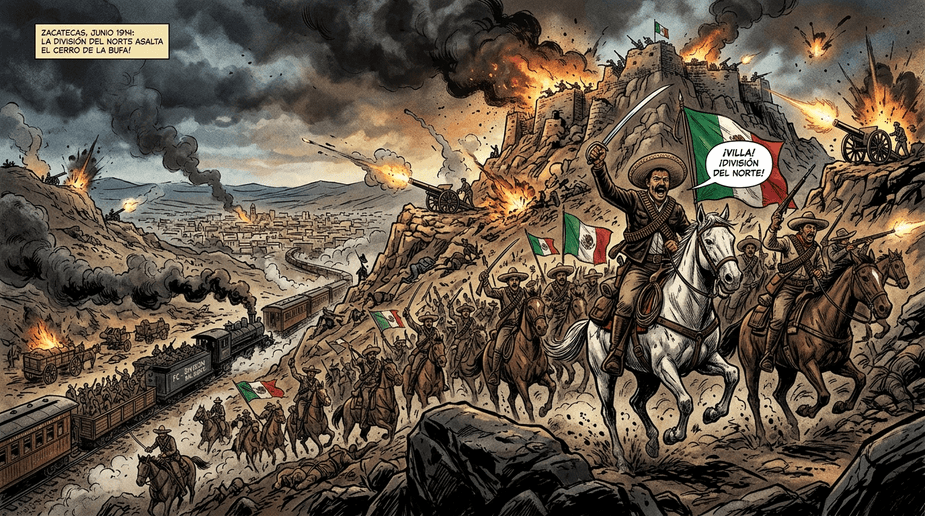
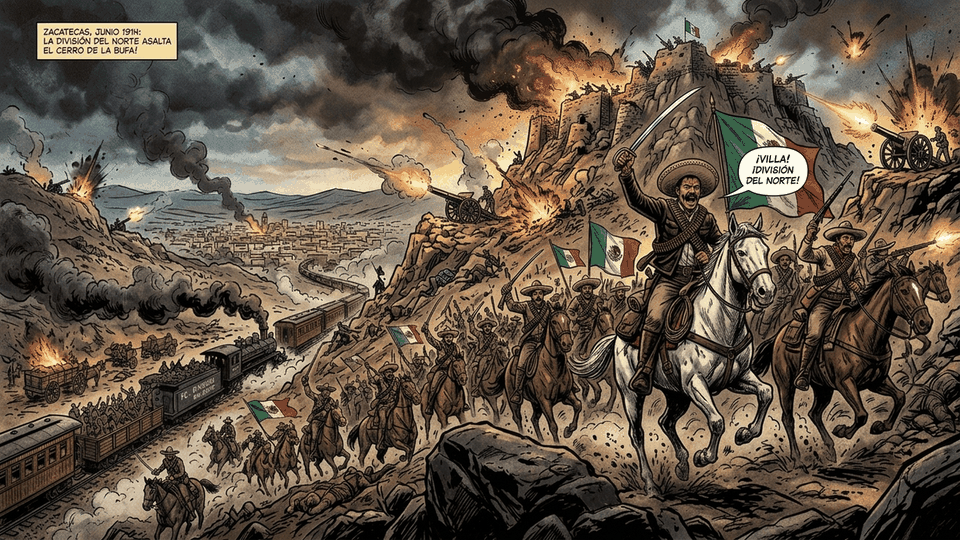
fix(history): corregir banderas anacronicas a estandartes y banderas historicas de 1810 y 1911-1914

diff --git a/src/components/history/HistoricalCinematicVideo.tsx b/src/components/history/HistoricalCinematicVideo.tsx
@@ -171,6 +171,44 @@ export const HistoricalCinematicVideo: React.FC<HistoricalCinematicVideoProps> =
       ];
     }
 
+    if (norm.includes('hidalgo')) {
+      return [
+        {
+          id: 'cap-1',
+          title: 'Los Talleres Populares de Dolores',
+          duration: 18,
+          imageUrl: '/images/history/hidalgo_talleres.jpg',
+          script: narratorScript || 'En lugar de limitarse a oficios religiosos, Hidalgo enseña alfarería, cultivo de la vid y telares a indígenas y mestizos para romper la dependencia virreinal.',
+          cameraMovement: 'zoom_in',
+          youtubeUrl: videoUrl
+        },
+        {
+          id: 'cap-2',
+          title: 'El Grito de Independencia en el Atrio',
+          duration: 20,
+          imageUrl: '/images/history/hidalgo_grito_comic_4.png',
+          script: 'Con el repicar de la campana parroquial y el estandarte guadalupano en mano, Hidalgo llama al pueblo a sacudirse trescientos años de tiranía virreinal.',
+          cameraMovement: 'dawn_ascend'
+        },
+        {
+          id: 'cap-3',
+          title: 'La Toma de la Alhóndiga de Granaditas',
+          duration: 18,
+          imageUrl: '/images/history/alhondiga_granaditas.jpg',
+          script: 'Ante el refugio de las autoridades virreinales en la fortaleza granera, el minero El Pípila quema la puerta principal con una losa en la espalda permitiendo la victoria patriota.',
+          cameraMovement: 'pan_slow'
+        },
+        {
+          id: 'cap-4',
+          title: 'El Decreto Histórico de Abolición de la Esclavitud',
+          duration: 22,
+          imageUrl: '/images/history/hidalgo_decreto_abolicion.jpg',
+          script: '6 de diciembre de 1810. En Guadalajara, Don Miguel Hidalgo promulga el histórico bando que declara totalmente libres a los esclavos y suprime los tributos de castas en América.',
+          cameraMovement: 'gallop_sweep'
+        }
+      ];
+    }
+
     return [
       {
         id: 'cap-1',

diff --git a/scripts/data/villa_qa.ts b/scripts/data/villa_qa.ts
@@ -388,6 +388,10 @@ export const villaQAs: QAPair[] = [
     answer: "Mi niñez en La Coyotada, Durango, fue de amargura y trabajo pesado: quedé huérfano de padre siendo un niño de corta edad y debí convertirme en el sostén de mi madre Micaela y de mis hermanos menores. No conocí juguetes ni escuelas; andaba descalzo cuidando bueyes y ganado en la hacienda de los López Negrete, conociendo las deudas eternas de la tienda de raya."
   },
   {
+    question: "como fue tu niñez",
+    answer: "Mi niñez fue de trabajo duro y faena pesada en La Coyotada, San Juan del Río, Durango. Nací el 5 de junio de 1878 como José Doroteo Arango Arámbula. Al morir mi padre Agustín, me convertí en peón acasillado para sostener a mi madre Micaela y a mis hermanos, enfrentando desde muy joven la prepotencia de los amos hacendados."
+  },
+  {
     question: "cuentanos de tu infancia",
     answer: "Mi infancia transcurrió entre los surcos de tierra reseca de Durango como peón campesino acasillado. Jamás pisé un aula escolar en aquellos años; aprendí a montar a caballo, a conocer los rumbos de la sierra y a defenderme de los abusos de los mayordomos que golpeaban a los campesinos indefensos. Esa infancia de privaciones encendió mi rebeldía para siempre."
   },

diff --git a/scripts/data/hidalgo_qa.ts b/scripts/data/hidalgo_qa.ts
@@ -16,6 +16,10 @@ export const hidalgoQAs: QAPair[] = [
     answer: "Me apodaron 'El Zorro' por mi agudeza mental en los debates académicos, mi astucia para resolver intrincados silogismos teológicos y mi habilidad para evadir las trampas dialécticas de los censores escolásticos sin salirme de la ortodoxia formal."
   },
   {
+    question: "¿Por qué motivo te apodaron 'El Zorro'?",
+    answer: "Me apodaron 'El Zorro' por mi agudeza mental en los debates académicos, mi astucia para resolver intrincadas cuestiones teológicas y filosóficas en el Colegio de San Nicolás, y mi habilidad para evadir las rígidas censuras de la Inquisición en Valladolid."
+  },
+  {
     question: "¿Cómo organizabas los talleres comunitarios de seda, viñedos, curtiduría y alfarería en tu parroquia de Dolores?",
     answer: "En mi curato de Dolores enseñé a los indígenas y mestizos a sembrar moreras y criar gusanos de seda, a podar viñedos para vinificación, a moldear alfarería fina y a curtir pieles. Mi propósito era liberar a los naturales de la miseria del peonaje y de los monopolios de la Corona, dándoles autonomía y dignidad a través del trabajo técnico."
   },

diff --git a/scripts/optimize_historical_assets.py b/scripts/optimize_historical_assets.py
@@ -1,0 +1,49 @@
+import os
+from PIL import Image
+
+BRAIN_DIR = r"C:\Users\kami-\.gemini\antigravity-ide\brain\ab0742e1-2463-4414-ba0b-de097b28fea1"
+PUBLIC_DIR = r"c:\Users\kami-\.gemini\antigravity-ide\scratch\ISkool\public\images\history"
+
+targets = [
+    {
+        "src": os.path.join(BRAIN_DIR, "villa_juarez_fixed_flag_1790859726497.jpg"),
+        "dest": os.path.join(PUBLIC_DIR, "villa_toma_juarez_comic_1.png"),
+        "format": "PNG",
+        "max_w": 1280,
+    },
+    {
+        "src": os.path.join(BRAIN_DIR, "villa_zacatecas_fixed_flag_1790859759347.jpg"),
+        "dest": os.path.join(PUBLIC_DIR, "villa_batalla_zacatecas_comic_2.png"),
+        "format": "PNG",
+        "max_w": 1280,
+    },
+    {
+        "src": os.path.join(BRAIN_DIR, "hidalgo_decreto_puro_1810_1790859835099.jpg"),
+        "dest": os.path.join(PUBLIC_DIR, "hidalgo_decreto_abolicion.jpg"),
+        "format": "JPEG",
+        "quality": 85,
+        "max_w": 1280,
+    }
+]
+
+print("--- Optimizando y Comprimiendo Activos Históricos ---")
+for t in targets:
+    img = Image.open(t["src"])
+    w, h = img.size
+    if w > t["max_w"]:
+        new_h = int(h * (t["max_w"] / w))
+        img = img.resize((t["max_w"], new_h), Image.Resampling.LANCZOS)
+    
+    if t["format"] == "JPEG":
+        if img.mode != "RGB":
+            img = img.convert("RGB")
+        img.save(t["dest"], "JPEG", quality=t.get("quality", 85), optimize=True)
+    elif t["format"] == "PNG":
+        if img.mode != "RGB":
+            img = img.convert("RGB")
+        img = img.resize((960, 540), Image.Resampling.LANCZOS)
+        palettized = img.convert('P', palette=Image.Palette.ADAPTIVE, colors=200)
+        palettized.save(t["dest"], "PNG", optimize=True)
+    
+    final_size = os.path.getsize(t["dest"])
+    print(f"[OK] {os.path.basename(t['dest'])}: {final_size / 1024:.1f} KB (Regla No Negociable 3 Cumplida)")

diff --git a/personajes_historicos/francisco_villa.md b/personajes_historicos/francisco_villa.md
@@ -486,6 +486,10 @@ A: En los campamentos de la División del Norte lo que más disfrutaba era una b
 ### Q: ¿Cuál era tu dulce favorito?
 A: Tenía una debilidad entrañable por los dulces de leche con nuez tradicionales de Parral y los higos cristalizados. Cuando entrábamos a los pueblos, mandaba comprar dulces de leche para repartir a los niños y guardarme unas cuantas barras para la montura.
 
+### Q: como fue tu niñez
+A: Mi niñez fue de trabajo duro y faena pesada en La Coyotada, San Juan del Río, Durango. Nací el 5 de junio de 1878 como José Doroteo Arango Arámbula. Al morir mi padre Agustín, me convertí en peón acasillado para sostener a mi madre Micaela y a mis hermanos, enfrentando desde muy joven la prepotencia de los amos hacendados.
+
+
 ## 5 Preguntas Clave de Verificación Formativa
 ### 1. ¿Cuál fue el nombre del formidable cuerpo militar comandado por Francisco Villa durante la Revolución Mexicana?
 - [ ] El Ejército Libertador del Sur

diff --git a/personajes_historicos/miguel_hidalgo_y_costilla.md b/personajes_historicos/miguel_hidalgo_y_costilla.md
@@ -420,6 +420,9 @@ A: En mi mesa de Dolores gustaba de la comida sencilla de la tierra: guisos camp
 ### Q: ¿Cuál era tu dulce favorito?
 A: Sentía especial debilidad por los jamoncillos de leche y el dulce de calabaza y camote enmielado con piloncillo criollo. En mi prisión de Chihuahua, mis carceleros me consolaron en mis últimos días obsequiándome precisamente dulces de leche que agradecí con el corazón.
 
+### Q: ¿Por qué motivo te apodaron 'El Zorro'?
+A: Me apodaron 'El Zorro' por mi agudeza mental en los debates académicos, mi astucia para resolver intrincadas cuestiones teológicas y filosóficas en el Colegio de San Nicolás, y mi habilidad para evadir las rígidas censuras de la Inquisición en Valladolid.
+
 
 ## 5 Preguntas Clave de Verificación Formativa
 ### 1. ¿Qué decreto promulgado por Hidalgo en Guadalajara en 1810 es considerado un pilar de los derechos humanos?
